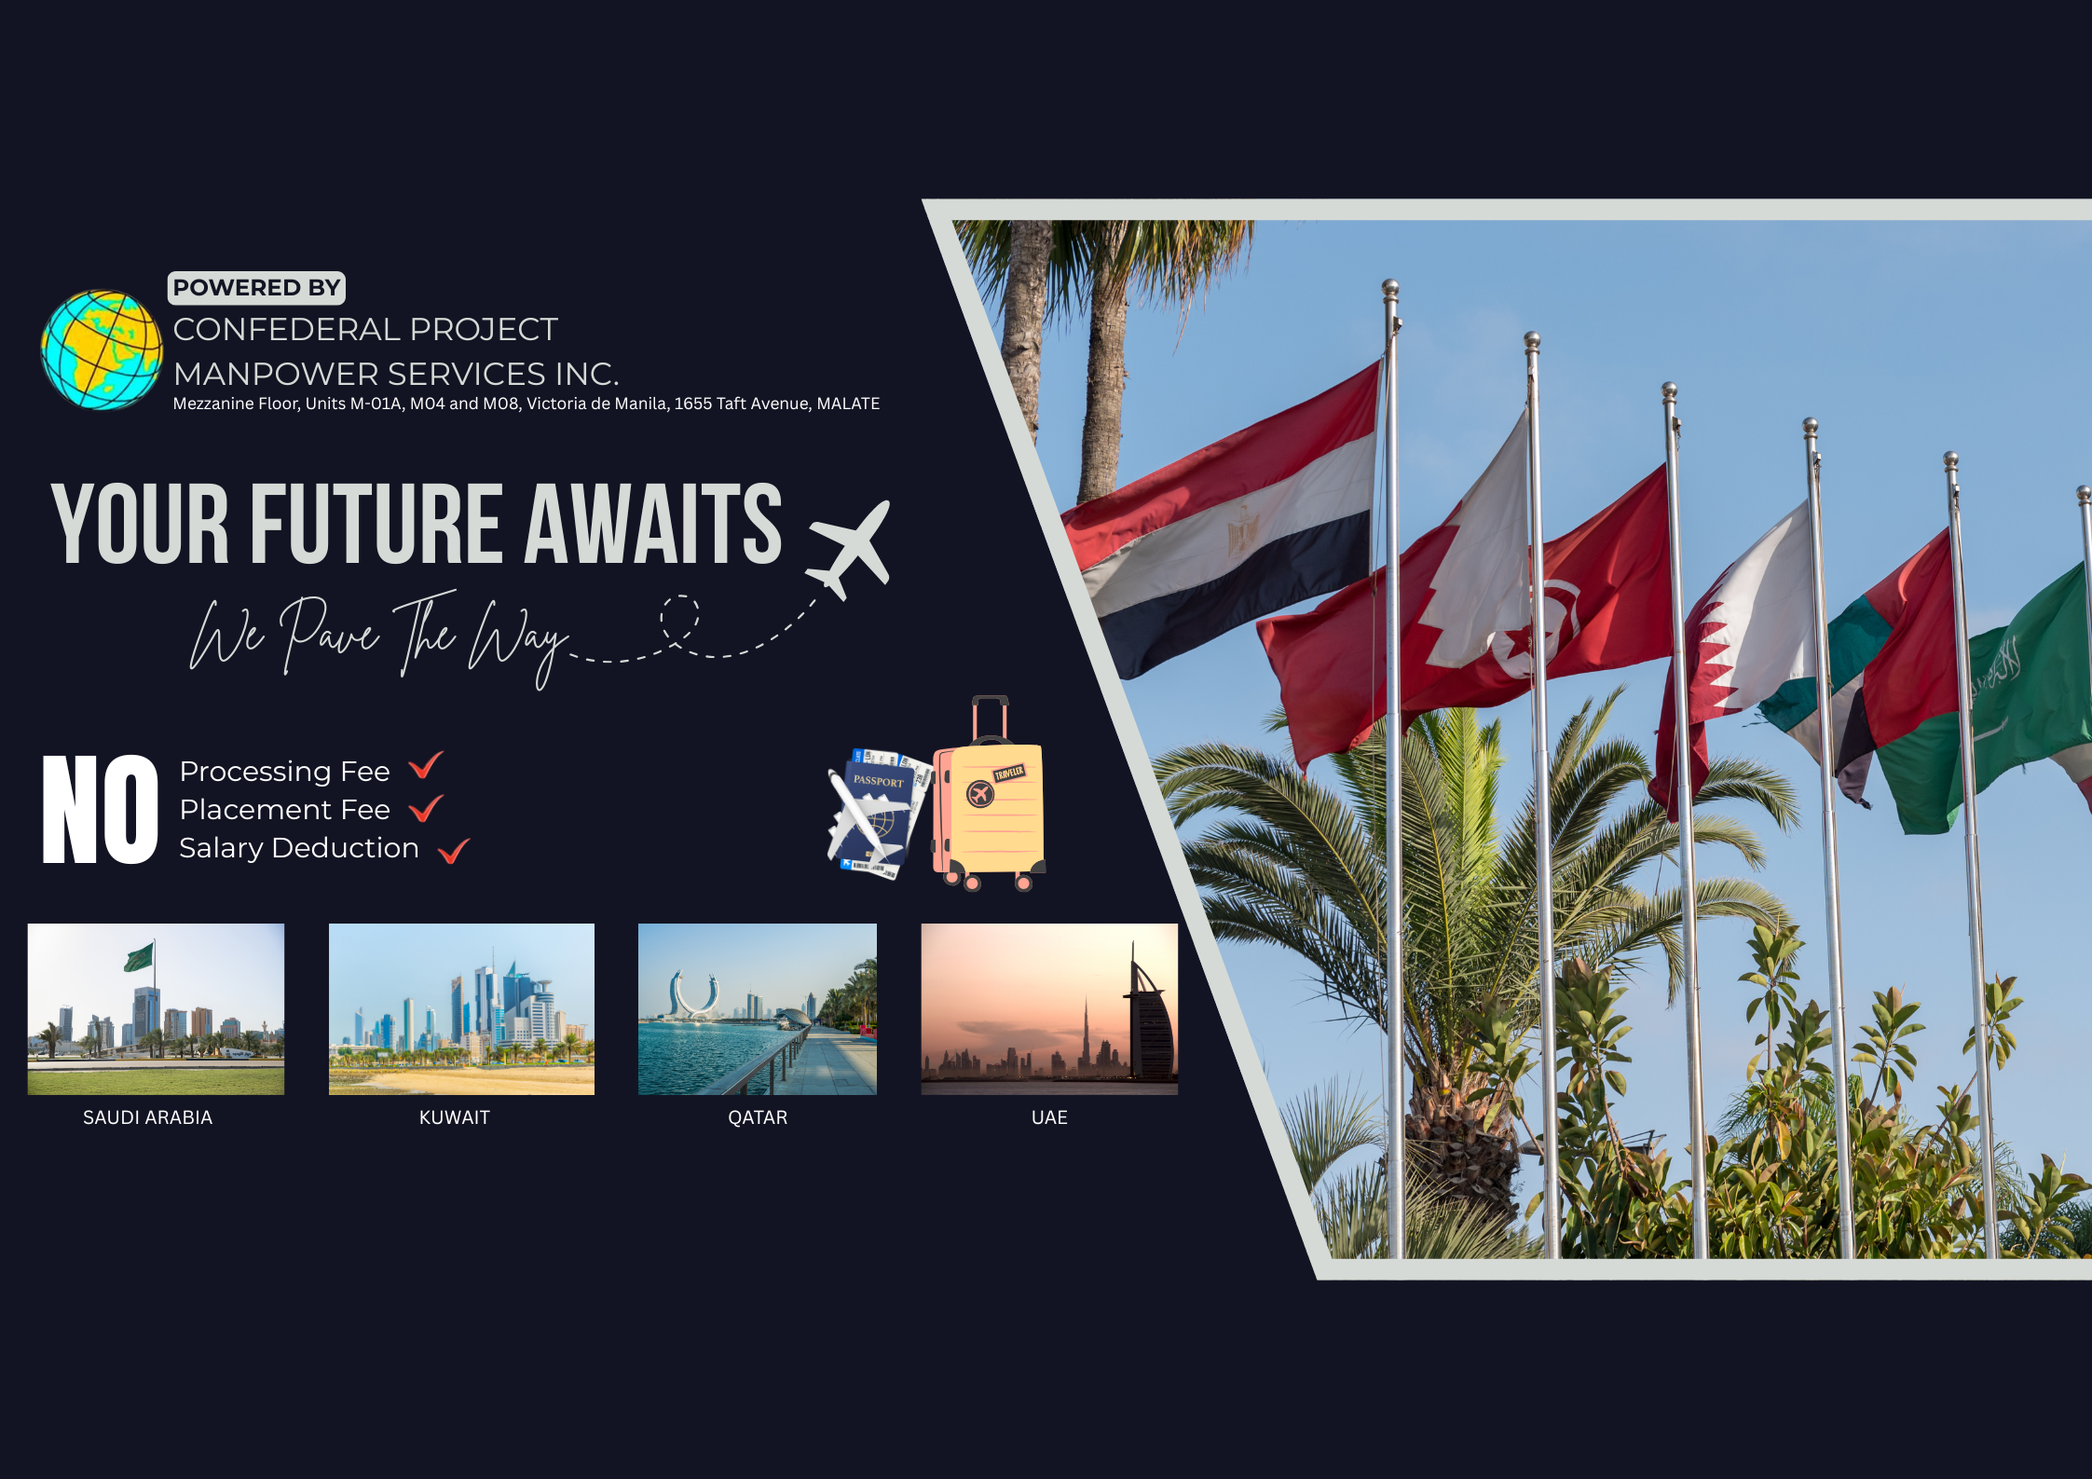
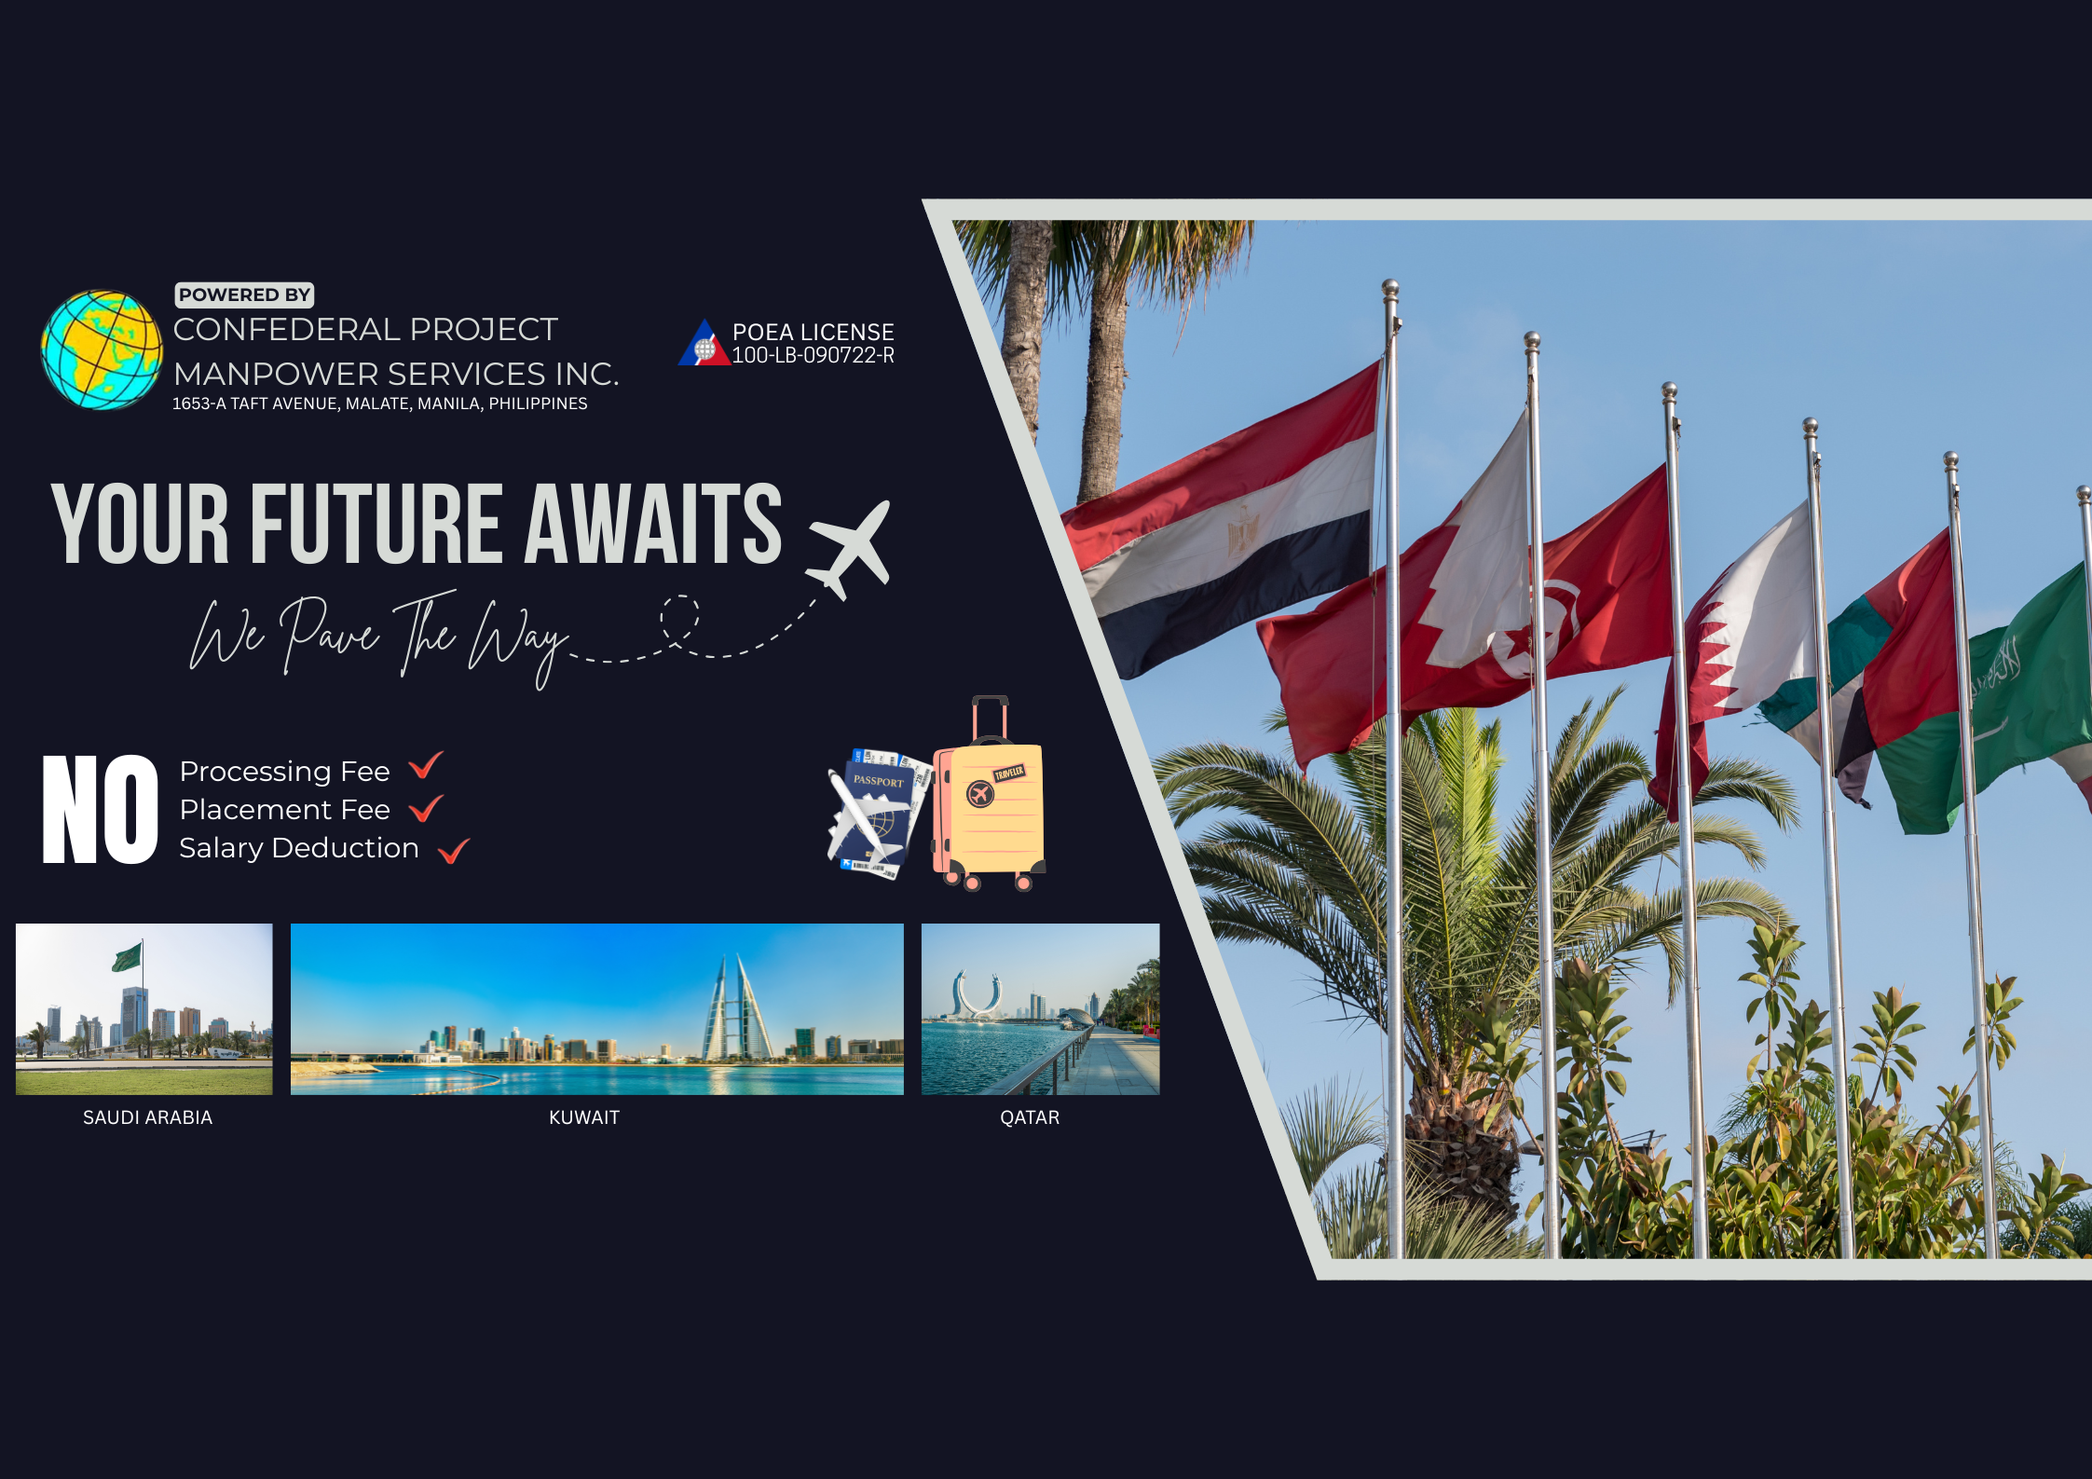
push

Changed region(s): [[0.0, 0.6175, 0.5612, 0.7719], [0.0935, 0.2161, 0.4365, 0.2779], [0.0624, 0.1853, 0.1871, 0.2161]]

diff --git a/resources/views/welcome.blade.php b/resources/views/welcome.blade.php
@@ -56,8 +56,8 @@
                 SGP
             </a>
             <div class="hidden md:flex space-x-4 items-center">
-                <a href="#about" class="hover:gold-text transition duration-300">About Us</a>
-                <a href="#services" class="hover:gold-text transition duration-300">Services</a>
+                <a href="#about" class="hover:gold-text transition duration-300">Hiring</a>
+                <a href="#services" class="hover:gold-text transition duration-300">About Us</a>
                 <a href="#contact" class="hover:gold-text transition duration-300">Contact</a>
 
                 @if (Route::has('login'))
@@ -105,102 +105,116 @@
             </a>
         </section>
 
-        <section id="about" class="py-20 md:py-32 container mx-auto px-4">
-            <h2 class="text-3xl md:text-4xl font-bold gold-text mb-8 text-center">About Our Agency</h2>
+        <section id="about" class="flex justify-center">
+            <img src="images/hiring.png" alt="Now Hiring" class="w-full">
+        </section>
 
-            <div class="flex flex-col md:flex-row items-stretch bg-gray-800 rounded-lg shadow-xl border gold-border overflow-hidden">
-                <!-- Left Image (smaller width) -->
-                <div class="md:w-1/3 h-60 md:h-auto">
-                    <img src="{{ asset('images/company.png') }}" alt="Company" class="w-full h-full object-cover">
+        <section id="services" class="py-20 md:py-32 bg-gray-800">
+            <div class="w-[90%] mx-auto">
+                <h2 class="text-3xl md:text-4xl font-bold gold-text mb-8 text-center">
+                    About Our Agency
+                </h2>
+
+                <div class="flex flex-col md:flex-row items-stretch bg-gray-800 rounded-lg shadow-xl border gold-border overflow-hidden">
+                    <!-- Left Image -->
+                    <div class="md:w-1/4 h-60 md:h-auto">
+                        <img src="{{ asset('images/company.png') }}" alt="Company" class="w-full h-full object-cover">
+                    </div>
+
+                    <!-- Right Content -->
+                    <div class="md:w-3/4 p-8 flex flex-col justify-center">
+                        <p class="text-lg mb-4 text-gray-300 leading-relaxed">
+                            <strong>Confederal Project Manpower Services, Inc.</strong> (CPMSI) is a trusted manpower agency located at 
+                            <strong>1653-A Taft Avenue, Malate, Manila, Philippines</strong>, proudly holding 
+                            <strong>POEA License No. 100-LB-090722-R</strong>. For several years, we have successfully deployed 
+                            qualified applicants abroad, helping them achieve their dreams and improve their lives.
+                        </p>
+
+                        <p class="text-lg mb-4 text-gray-300 leading-relaxed">
+                            <strong>SGP</strong> (Secure Global Placement) is an innovative initiative by <strong>CPMSI</strong> (Confederal Project Manpower Services Inc.) aimed at streamlining the search for aspiring applicants across the Philippines. Through SGP, we connect them with global opportunities faster and more efficiently.
+                        </p>
+                        <p class="text-lg mb-4 text-gray-300 leading-relaxed">
+                            We conduct the <strong>initial interviews</strong> to ensure only qualified candidates proceed to the next stages, saving both applicants and employers valuable time.
+                        </p>
+                        <p class="text-lg text-gray-300 leading-relaxed">
+                            We provide complete assistance to our applicants — from passport processing, travel fare to Manila, 
+                            accommodation, daily allowance, and training, all the way until they successfully fly abroad. 
+                            And the best part — <strong>everything is FREE</strong>.
+                        </p>
+                    </div>
                 </div>
-
-                <!-- Right Content (more space) -->
-                <div class="md:w-2/3 p-8 flex flex-col justify-center">
-                    <p class="text-lg mb-4 text-gray-300 leading-relaxed">
-                        <strong>SGP</strong> (Secure Global Placement) is an innovative initiative by <strong>CPMSI</strong> (Confederal Project Manpower Services Inc.) aimed at streamlining the search for aspiring applicants across the Philippines. Through SGP, we connect them with global opportunities faster and more efficiently.
-                    </p>
-                    <p class="text-lg mb-4 text-gray-300 leading-relaxed">
-                        We conduct the <strong>initial interviews</strong> to ensure only qualified candidates proceed to the next stages, saving both applicants and employers valuable time.
-                    </p>
-                    <p class="text-lg text-gray-300 leading-relaxed">
-                        Using our secure online platform, we make sure applicants’ information is stored safely and they are updated in real-time about their application status — never leaving them hanging.
-                    </p>
-                </div>
-
             </div>
         </section>
 
-
-<!-- Services Section -->
-<section id="services" class="py-20 md:py-32 bg-gray-800">
-    <div class="container mx-auto px-4 text-center">
-        <h2 class="text-3xl md:text-4xl font-bold gold-text mb-12">Our Services</h2>
-        <div class="grid grid-cols-1 md:grid-cols-3 gap-8 max-w-6xl mx-auto">
-            
-            <!-- Service 1 -->
-            <div class="bg-gray-900 p-8 rounded-lg shadow-xl border gold-border transform hover:scale-105 transition duration-300">
-                <svg class="w-16 h-16 gold-text mx-auto mb-4" fill="currentColor" viewBox="0 0 24 24">
-                    <path d="M12 12c2.21 0 4-1.79 4-4s-1.79-4-4-4-4 1.79-4 4 1.79 4 4 4zm0 2c-2.67 0-8 1.34-8 4v2h16v-2c0-2.66-5.33-4-8-4z"></path>
-                </svg>
-                <h3 class="text-xl font-semibold gold-text mb-2">Applicant Screening & Initial Interviews</h3>
-                <p class="text-gray-300">
-                    We conduct thorough initial interviews to ensure only qualified and prepared applicants move forward, helping both candidates and employers save valuable time.
-                </p>
-            </div>
-            
-            <!-- Service 2 -->
-            <div class="bg-gray-900 p-8 rounded-lg shadow-xl border gold-border transform hover:scale-105 transition duration-300">
-                <svg class="w-16 h-16 gold-text mx-auto mb-4" fill="currentColor" viewBox="0 0 24 24">
-                    <path d="M12 1L3 5v6c0 5.55 3.84 10.74 9 12 5.16-1.26 9-6.45 9-12V5l-9-4zm0 13c-1.1 0-2-.9-2-2s.9-2 2-2 2 .9 2 2-.9 2-2 2z"></path>
-                </svg>
-                <h3 class="text-xl font-semibold gold-text mb-2">Real-Time Application Tracking</h3>
-                <p class="text-gray-300">
-                    Our online platform securely stores applicant information and provides real-time updates, ensuring no candidate is left wondering about their status.
-                </p>
-            </div>
-            
-            <!-- Service 3 -->
-            <div class="bg-gray-900 p-8 rounded-lg shadow-xl border gold-border transform hover:scale-105 transition duration-300">
-                <svg class="w-16 h-16 gold-text mx-auto mb-4" fill="currentColor" viewBox="0 0 24 24">
-                    <path d="M20 6h-2.18c.11-.31.18-.65.18-1 0-1.66-1.34-3-3-3s-3 1.34-3 3c0 .35.07.69.18 1H8c.11-.31.18-.65.18-1 0-1.66-1.34-3-3-3s-3 1.34-3 3c0 .35.07.69.18 1H4c-1.11 0-1.99.89-1.99 2L2 19c0 1.11.89 2 2 2h16c1.11 0 2-.89 2-2V8c0-1.11-.89-2-2-2zm-5-3c.55 0 1 .45 1 1s-.45 1-1 1-1-.45-1-1 .45-1 1-1zM5 5c.55 0 1 .45 1 1s-.45 1-1 1-1-.45-1-1 .45-1 1-1zm15 14H4V8h16v11z"></path>
-                </svg>
-                <h3 class="text-xl font-semibold gold-text mb-2">Overseas Placement & Support</h3>
-                <p class="text-gray-300">
-                    From matching applicants with international employers to assisting with visa and travel requirements, we ensure a smooth journey to global opportunities.
-                </p>
-            </div>
-
-        </div>
-    </div>
-</section>
-
-
         <!-- Contact Section -->
-        <section id="contact" class="py-20 md:py-32 container mx-auto px-4">
-            <div class="max-w-xl mx-auto text-center">
-                <h2 class="text-3xl md:text-4xl font-bold gold-text mb-12">Contact Us</h2>
-                <div class="bg-gray-800 p-8 rounded-lg shadow-xl border gold-border">
-                    <form id="contact-form" class="space-y-6">
-                        <div>
-                            <input type="text" id="name" placeholder="Your Name" class="w-full p-3 rounded-lg bg-gray-700 text-gray-200 focus:outline-none focus:ring-2 focus:ring-yellow-400 border border-gray-600" required>
+        <section id="contact" class="py-20 md:py-32 bg-gray-900 text-white">
+            <div class="w-[90%] max-w-6xl mx-auto text-center">
+                <h2 class="text-3xl md:text-4xl font-bold text-yellow-500 mb-12">Contact Us</h2>
+
+                <div class="grid grid-cols-1 md:grid-cols-2 gap-10">
+
+                    <div class="space-y-6">
+                        <a href="https://facebook.com/YOUR_PAGE" target="_blank" class="block">
+                            <div class="flex items-center p-6 bg-gray-800 rounded-lg shadow-xl border border-yellow-500 transition duration-300 ease-in-out hover:bg-gray-700">
+                                <div class="w-12 h-12 flex items-center justify-center bg-yellow-500 text-gray-900 rounded-full flex-shrink-0">
+                                    <i class="fab fa-facebook-f text-xl"></i>
+                                </div>
+                                <div class="ml-6 text-left">
+                                    <h3 class="text-lg font-semibold text-yellow-500">Facebook</h3>
+                                    <p class="text-gray-300">Visit our Facebook Page</p>
+                                </div>
+                            </div>
+                        </a>
+
+                        <a href="tel:+639XXXXXXXXX" class="block">
+                            <div class="flex items-center p-6 bg-gray-800 rounded-lg shadow-xl border border-yellow-500 transition duration-300 ease-in-out hover:bg-gray-700">
+                                <div class="w-12 h-12 flex items-center justify-center bg-yellow-500 text-gray-900 rounded-full flex-shrink-0">
+                                    <i class="fas fa-phone-alt text-xl"></i>
+                                </div>
+                                <div class="ml-6 text-left">
+                                    <h3 class="text-lg font-semibold text-yellow-500">Phone</h3>
+                                    <p class="text-gray-300">+63 9XX XXX XXXX</p>
+                                </div>
+                            </div>
+                        </a>
+
+                        <a href="mailto:youremail@example.com" class="block">
+                            <div class="flex items-center p-6 bg-gray-800 rounded-lg shadow-xl border border-yellow-500 transition duration-300 ease-in-out hover:bg-gray-700">
+                                <div class="w-12 h-12 flex items-center justify-center bg-yellow-500 text-gray-900 rounded-full flex-shrink-0">
+                                    <i class="fas fa-envelope text-xl"></i>
+                                </div>
+                                <div class="ml-6 text-left">
+                                    <h3 class="text-lg font-semibold text-yellow-500">Email</h3>
+                                    <p class="text-gray-300">youremail@example.com</p>
+                                </div>
+                            </div>
+                        </a>
+
+                        <div class="flex items-center p-6 bg-gray-800 rounded-lg shadow-xl border border-yellow-500">
+                            <div class="w-12 h-12 flex items-center justify-center bg-yellow-500 text-gray-900 rounded-full flex-shrink-0">
+                                <i class="fas fa-map-marker-alt text-xl"></i>
+                            </div>
+                            <div class="ml-6 text-left">
+                                <h3 class="text-lg font-semibold text-yellow-500">Address</h3>
+                                <p class="text-gray-300">Confederal Project Manpower Services Inc., 1653-A Taft Avenue, Malate, Manila</p>
+                            </div>
                         </div>
-                        <div>
-                            <input type="email" id="email" placeholder="Your Email" class="w-full p-3 rounded-lg bg-gray-700 text-gray-200 focus:outline-none focus:ring-2 focus:ring-yellow-400 border border-gray-600" required>
-                        </div>
-                        <div>
-                            <textarea id="message" rows="5" placeholder="Your Message" class="w-full p-3 rounded-lg bg-gray-700 text-gray-200 focus:outline-none focus:ring-2 focus:ring-yellow-400 border border-gray-600" required></textarea>
-                        </div>
-                        <button type="submit" class="w-full gold-bg text-gray-900 font-bold py-3 rounded-lg shadow-lg hover:bg-yellow-400 transition duration-300 transform hover:scale-105">
-                            Send Message
-                        </button>
-                    </form>
-                    <div id="form-message" class="mt-6 hidden text-center p-4 rounded-lg gold-bg text-gray-900 font-bold">
-                        Thank you for your message! We will get back to you shortly.
+                    </div>
+
+                    <div class="w-full h-120 rounded-lg overflow-hidden border border-yellow-500 shadow-xl">
+                        <iframe src="https://www.google.com/maps/embed?pb=!1m18!1m12!1m3!1d3861.4145989020053!2d120.98591567515177!3d14.575435685907955!2m3!1f0!2f0!3f0!3m2!1i1024!2i768!4f13.1!3m3!1m2!1s0x3397c9876ffc33ad%3A0xf26432bb3952784a!2sConfederal%20Project!5e0!3m2!1sen!2sph!4v1755045087899!5m2!1sen!2sph" width="600" height="500" style="border:0;" allowfullscreen="" loading="lazy" referrerpolicy="no-referrer-when-downgrade"></iframe>
                     </div>
                 </div>
             </div>
         </section>
     </main>
+
+    <div class="flex justify-center mt-8">
+        <a href="{{ route('register') }}" 
+            class="gold-bg text-gray-900 font-bold py-3 px-8 rounded-full shadow-lg hover:bg-yellow-400 transition duration-300 transform hover:scale-105">
+            Apply Now
+        </a>
+    </div>
 
     <!-- Footer -->
     <footer class="bg-gray-900 py-8 text-center text-gray-400">

diff --git a/resources/views/auth/login.blade.php b/resources/views/auth/login.blade.php
@@ -39,9 +39,16 @@
                 </a>
             @endif
 
-            <x-primary-button class="ms-3">
-                {{ __('Log in') }}
-            </x-primary-button>
+        <x-primary-button class="ms-3 bg-[#e6c068] text-gray-900 font-bold hover:bg-yellow-400 transition">
+            {{ __('Log in') }}
+        </x-primary-button>
+
         </div>
     </form>
+    <div class="flex justify-center mt-8">
+        <a href="{{ route('register') }}" 
+            class="bg-[#e6c068] text-gray-900 font-bold py-3 px-8 rounded-full shadow-lg hover:bg-yellow-400 transition duration-300 transform hover:scale-105">
+            Register Now
+        </a>
+    </div>
 </x-guest-layout>
